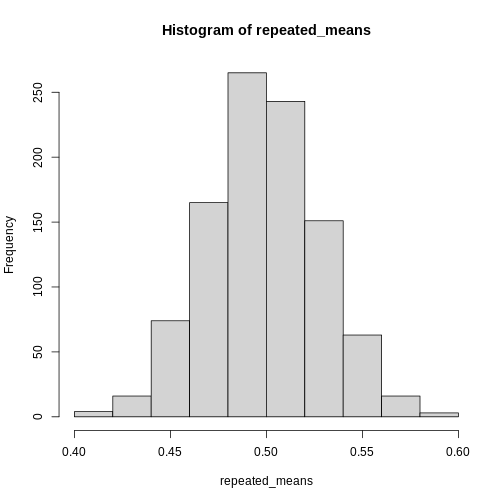
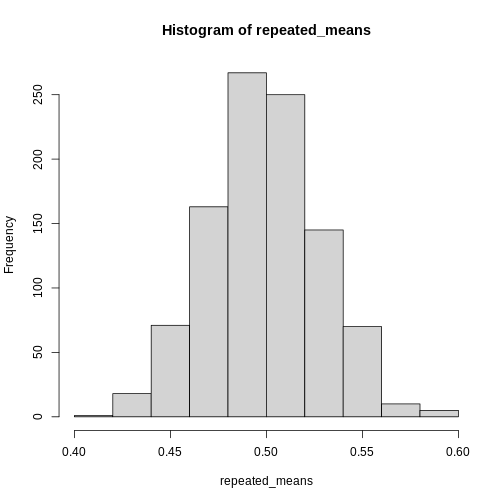
markdown source builds
Auto-generated via `{sandpaper}`
Source  : b9bc65478793bdfb3ea31793bc34e610d1f4d692
Branch  : main
Author  : enerammer <enerammer@gmail.com>
Time    : 2024-11-22 09:40:31 +0000
Message : Har lavet en rmd-fil under lessons, og tilføjet data fra matematik kurset. Er ikke indsat som rigtig lesson

diff --git a/kmeans.md b/kmeans.md
@@ -45,7 +45,7 @@ library(tidyverse)
 ✔ dplyr     1.1.4     ✔ readr     2.1.5
 ✔ forcats   1.0.0     ✔ stringr   1.5.1
 ✔ ggplot2   3.5.1     ✔ tibble    3.2.1
-✔ lubridate 1.9.3     ✔ tidyr     1.3.1
+✔ lubridate 1.9.4     ✔ tidyr     1.3.1
 ✔ purrr     1.0.2     
 ── Conflicts ────────────────────────────────────────── tidyverse_conflicts() ──
 ✖ dplyr::filter() masks stats::filter()
@@ -144,31 +144,31 @@ clustering
 ```
 
 ``` output
-K-means clustering with 3 clusters of sizes 62, 47, 69
+K-means clustering with 3 clusters of sizes 47, 62, 69
 
 Cluster means:
    Alcohol Malicacid      Ash Alcalinityofash Magnesium Totalphenols Flavanoids
-1 12.92984  2.504032 2.408065        19.89032 103.59677     2.111129   1.584032
-2 13.80447  1.883404 2.426170        17.02340 105.51064     2.867234   3.014255
+1 13.80447  1.883404 2.426170        17.02340 105.51064     2.867234   3.014255
+2 12.92984  2.504032 2.408065        19.89032 103.59677     2.111129   1.584032
 3 12.51667  2.494203 2.288551        20.82319  92.34783     2.070725   1.758406
   Nonflavanoidphenols Proanthocyanins Colorintensity       Hue
-1           0.3883871        1.503387       5.650323 0.8839677
-2           0.2853191        1.910426       5.702553 1.0782979
+1           0.2853191        1.910426       5.702553 1.0782979
+2           0.3883871        1.503387       5.650323 0.8839677
 3           0.3901449        1.451884       4.086957 0.9411594
   OD280OD315ofdilutedwines   Proline
-1                 2.365484  728.3387
-2                 3.114043 1195.1489
+1                 3.114043 1195.1489
+2                 2.365484  728.3387
 3                 2.490725  458.2319
 
 Clustering vector:
-  [1] 2 2 2 2 1 2 2 2 2 2 2 2 2 2 2 2 2 2 2 1 1 1 2 2 1 1 2 2 1 2 2 2 2 2 2 1 1
- [38] 2 2 1 1 2 2 1 1 2 2 2 2 2 2 2 2 2 2 2 2 2 2 3 1 3 1 3 3 1 3 3 1 1 1 3 3 2
- [75] 1 3 3 3 1 3 3 1 1 3 3 3 3 3 1 1 3 3 3 3 3 1 1 3 1 3 1 3 3 3 1 3 3 3 3 1 3
-[112] 3 1 3 3 3 3 3 3 3 1 3 3 3 3 3 3 3 3 3 1 3 3 1 1 1 1 3 3 3 1 1 3 3 1 1 3 1
-[149] 1 3 3 3 3 1 1 1 3 1 1 1 3 1 3 1 1 3 1 1 1 1 3 3 1 1 1 1 1 3
+  [1] 1 1 1 1 2 1 1 1 1 1 1 1 1 1 1 1 1 1 1 2 2 2 1 1 2 2 1 1 2 1 1 1 1 1 1 2 2
+ [38] 1 1 2 2 1 1 2 2 1 1 1 1 1 1 1 1 1 1 1 1 1 1 3 2 3 2 3 3 2 3 3 2 2 2 3 3 1
+ [75] 2 3 3 3 2 3 3 2 2 3 3 3 3 3 2 2 3 3 3 3 3 2 2 3 2 3 2 3 3 3 2 3 3 3 3 2 3
+[112] 3 2 3 3 3 3 3 3 3 2 3 3 3 3 3 3 3 3 3 2 3 3 2 2 2 2 3 3 3 2 2 3 3 2 2 3 2
+[149] 2 3 3 3 3 2 2 2 3 2 2 2 3 2 3 2 2 3 2 2 2 2 3 3 2 2 2 2 2 3
 
 Within cluster sum of squares by cluster:
-[1]  566572.5 1360950.5  443166.7
+[1] 1360950.5  566572.5  443166.7
  (between_SS / total_SS =  86.5 %)
 
 Available components:
@@ -188,8 +188,8 @@ table()
 ``` output
      true
 quess  1  2  3
-    1 13 20 29
-    2 46  1  0
+    1 46  1  0
+    2 13 20 29
     3  0 50 19
 ```
 

diff --git a/barcharts.md b/barcharts.md
@@ -34,7 +34,7 @@ library(tidyverse)
 ✔ dplyr     1.1.4     ✔ readr     2.1.5
 ✔ forcats   1.0.0     ✔ stringr   1.5.1
 ✔ ggplot2   3.5.1     ✔ tibble    3.2.1
-✔ lubridate 1.9.3     ✔ tidyr     1.3.1
+✔ lubridate 1.9.4     ✔ tidyr     1.3.1
 ✔ purrr     1.0.2     
 ── Conflicts ────────────────────────────────────────── tidyverse_conflicts() ──
 ✖ dplyr::filter() masks stats::filter()

diff --git a/design-principles.md b/design-principles.md
@@ -28,7 +28,7 @@ library(tidyverse)
 ✔ dplyr     1.1.4     ✔ readr     2.1.5
 ✔ forcats   1.0.0     ✔ stringr   1.5.1
 ✔ ggplot2   3.5.1     ✔ tibble    3.2.1
-✔ lubridate 1.9.3     ✔ tidyr     1.3.1
+✔ lubridate 1.9.4     ✔ tidyr     1.3.1
 ✔ purrr     1.0.2     
 ── Conflicts ────────────────────────────────────────── tidyverse_conflicts() ──
 ✖ dplyr::filter() masks stats::filter()

diff --git a/linear-regression.md b/linear-regression.md
@@ -33,7 +33,7 @@ library(tidyverse)
 ✔ dplyr     1.1.4     ✔ readr     2.1.5
 ✔ forcats   1.0.0     ✔ stringr   1.5.1
 ✔ ggplot2   3.5.1     ✔ tibble    3.2.1
-✔ lubridate 1.9.3     ✔ tidyr     1.3.1
+✔ lubridate 1.9.4     ✔ tidyr     1.3.1
 ✔ purrr     1.0.2     
 ── Conflicts ────────────────────────────────────────── tidyverse_conflicts() ──
 ✖ dplyr::filter() masks stats::filter()

diff --git a/powerberegninger.md b/powerberegninger.md
@@ -65,7 +65,7 @@ library(tidyverse)
 ✔ dplyr     1.1.4     ✔ readr     2.1.5
 ✔ forcats   1.0.0     ✔ stringr   1.5.1
 ✔ ggplot2   3.5.1     ✔ tibble    3.2.1
-✔ lubridate 1.9.3     ✔ tidyr     1.3.1
+✔ lubridate 1.9.4     ✔ tidyr     1.3.1
 ✔ purrr     1.0.2     
 ── Conflicts ────────────────────────────────────────── tidyverse_conflicts() ──
 ✖ dplyr::filter() masks stats::filter()

diff --git a/logistic-regression.md b/logistic-regression.md
@@ -24,7 +24,7 @@ editor_options:
 ✔ dplyr     1.1.4     ✔ readr     2.1.5
 ✔ forcats   1.0.0     ✔ stringr   1.5.1
 ✔ ggplot2   3.5.1     ✔ tibble    3.2.1
-✔ lubridate 1.9.3     ✔ tidyr     1.3.1
+✔ lubridate 1.9.4     ✔ tidyr     1.3.1
 ✔ purrr     1.0.2     
 ── Conflicts ────────────────────────────────────────── tidyverse_conflicts() ──
 ✖ dplyr::filter() masks stats::filter()

diff --git a/clt.md b/clt.md
@@ -45,7 +45,7 @@ mean(random_numbers)
 ```
 
 ``` output
-[1] 0.5241619
+[1] 0.4455985
 ```
 The important point of the Central Limit Theorem is, that if we take a large
 number of random samples, and calculate the mean of each of these samples,
@@ -59,7 +59,7 @@ mean(runif(100))
 ```
 
 ``` output
-[1] 0.5737366
+[1] 0.4807966
 ```
 And we can use the `replicate()` function to repeat that calculation several times, in this case 1000 times:
 

diff --git a/normal-distribution.md b/normal-distribution.md
@@ -196,7 +196,7 @@ rnorm(5, mean = 0, sd = 1 )
 ```
 
 ``` output
-[1]  0.8970769 -0.7782612  0.3412105 -0.4726352 -1.8759804
+[1]  0.5262107 -0.1198650 -1.0602155  0.2597623 -1.1591489
 ```
 Den returnerer (her) fem tilfældige værdier fra en normalfordeling med (her) 
 middelværdi 0 og standardafvigelse 1.

diff --git a/factor-analysis.md b/factor-analysis.md
@@ -56,7 +56,7 @@ library(tidyverse)
 ✔ dplyr     1.1.4     ✔ readr     2.1.5
 ✔ forcats   1.0.0     ✔ stringr   1.5.1
 ✔ ggplot2   3.5.1     ✔ tibble    3.2.1
-✔ lubridate 1.9.3     ✔ tidyr     1.3.1
+✔ lubridate 1.9.4     ✔ tidyr     1.3.1
 ✔ purrr     1.0.2     
 ```
 
